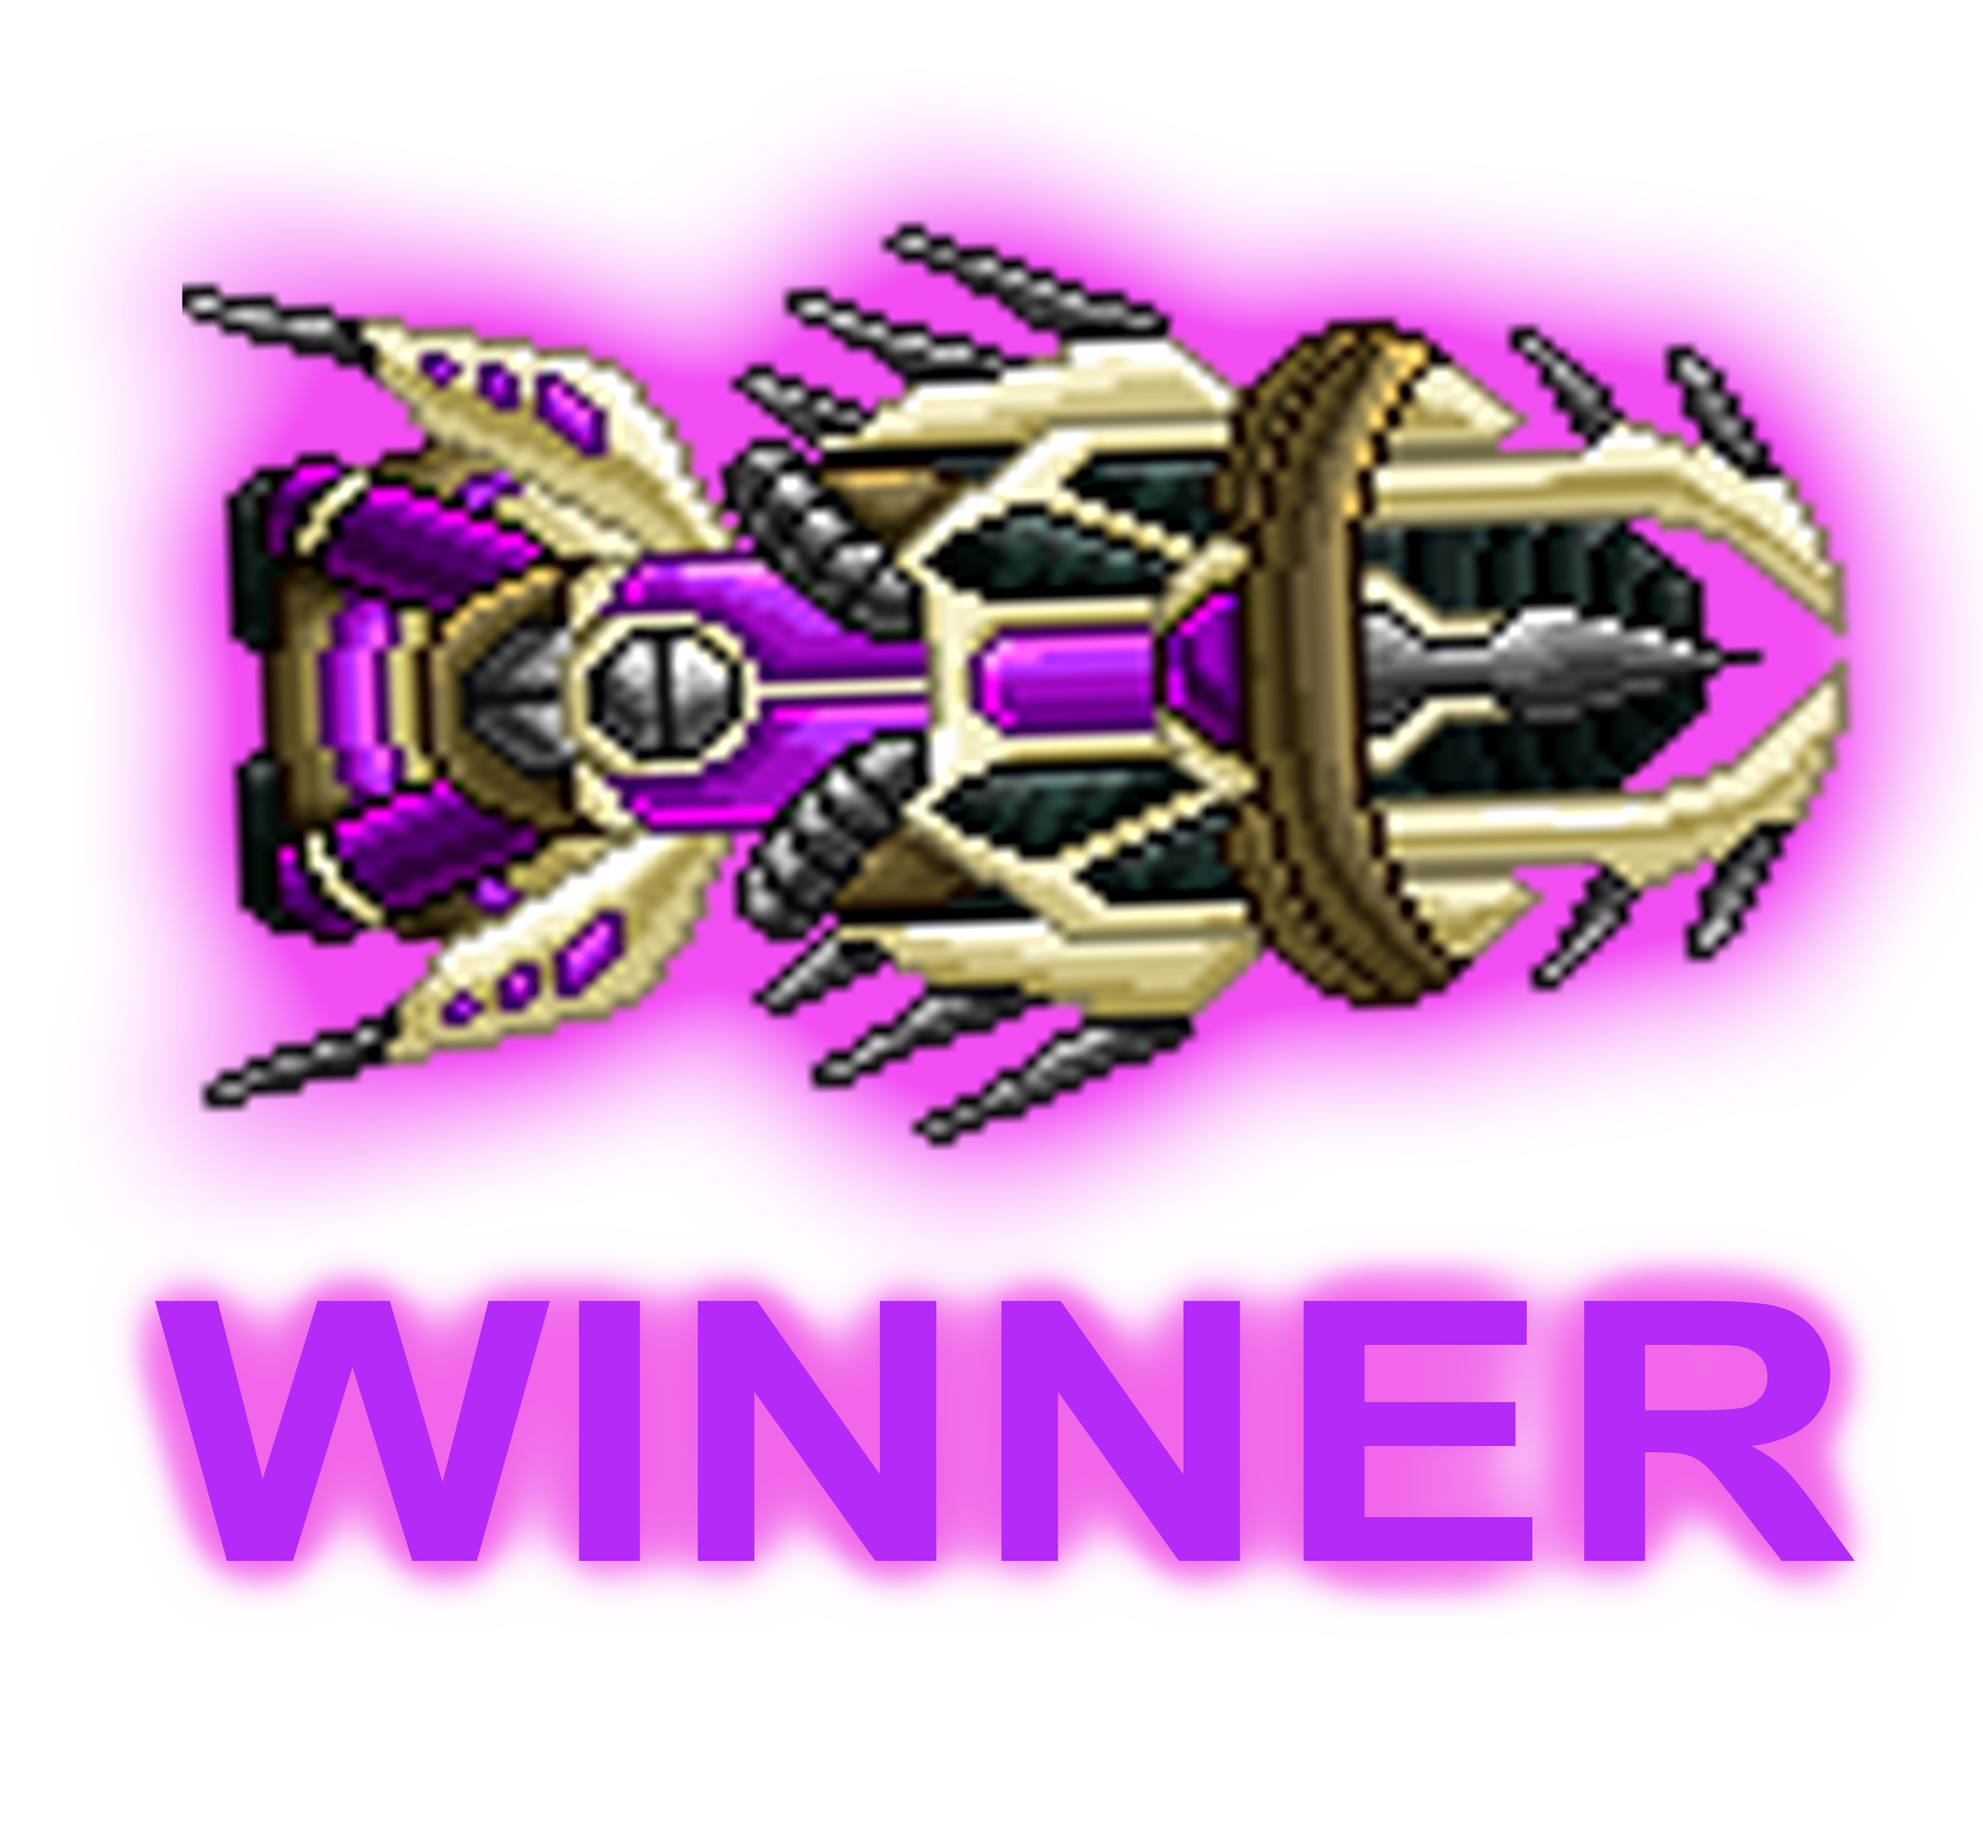
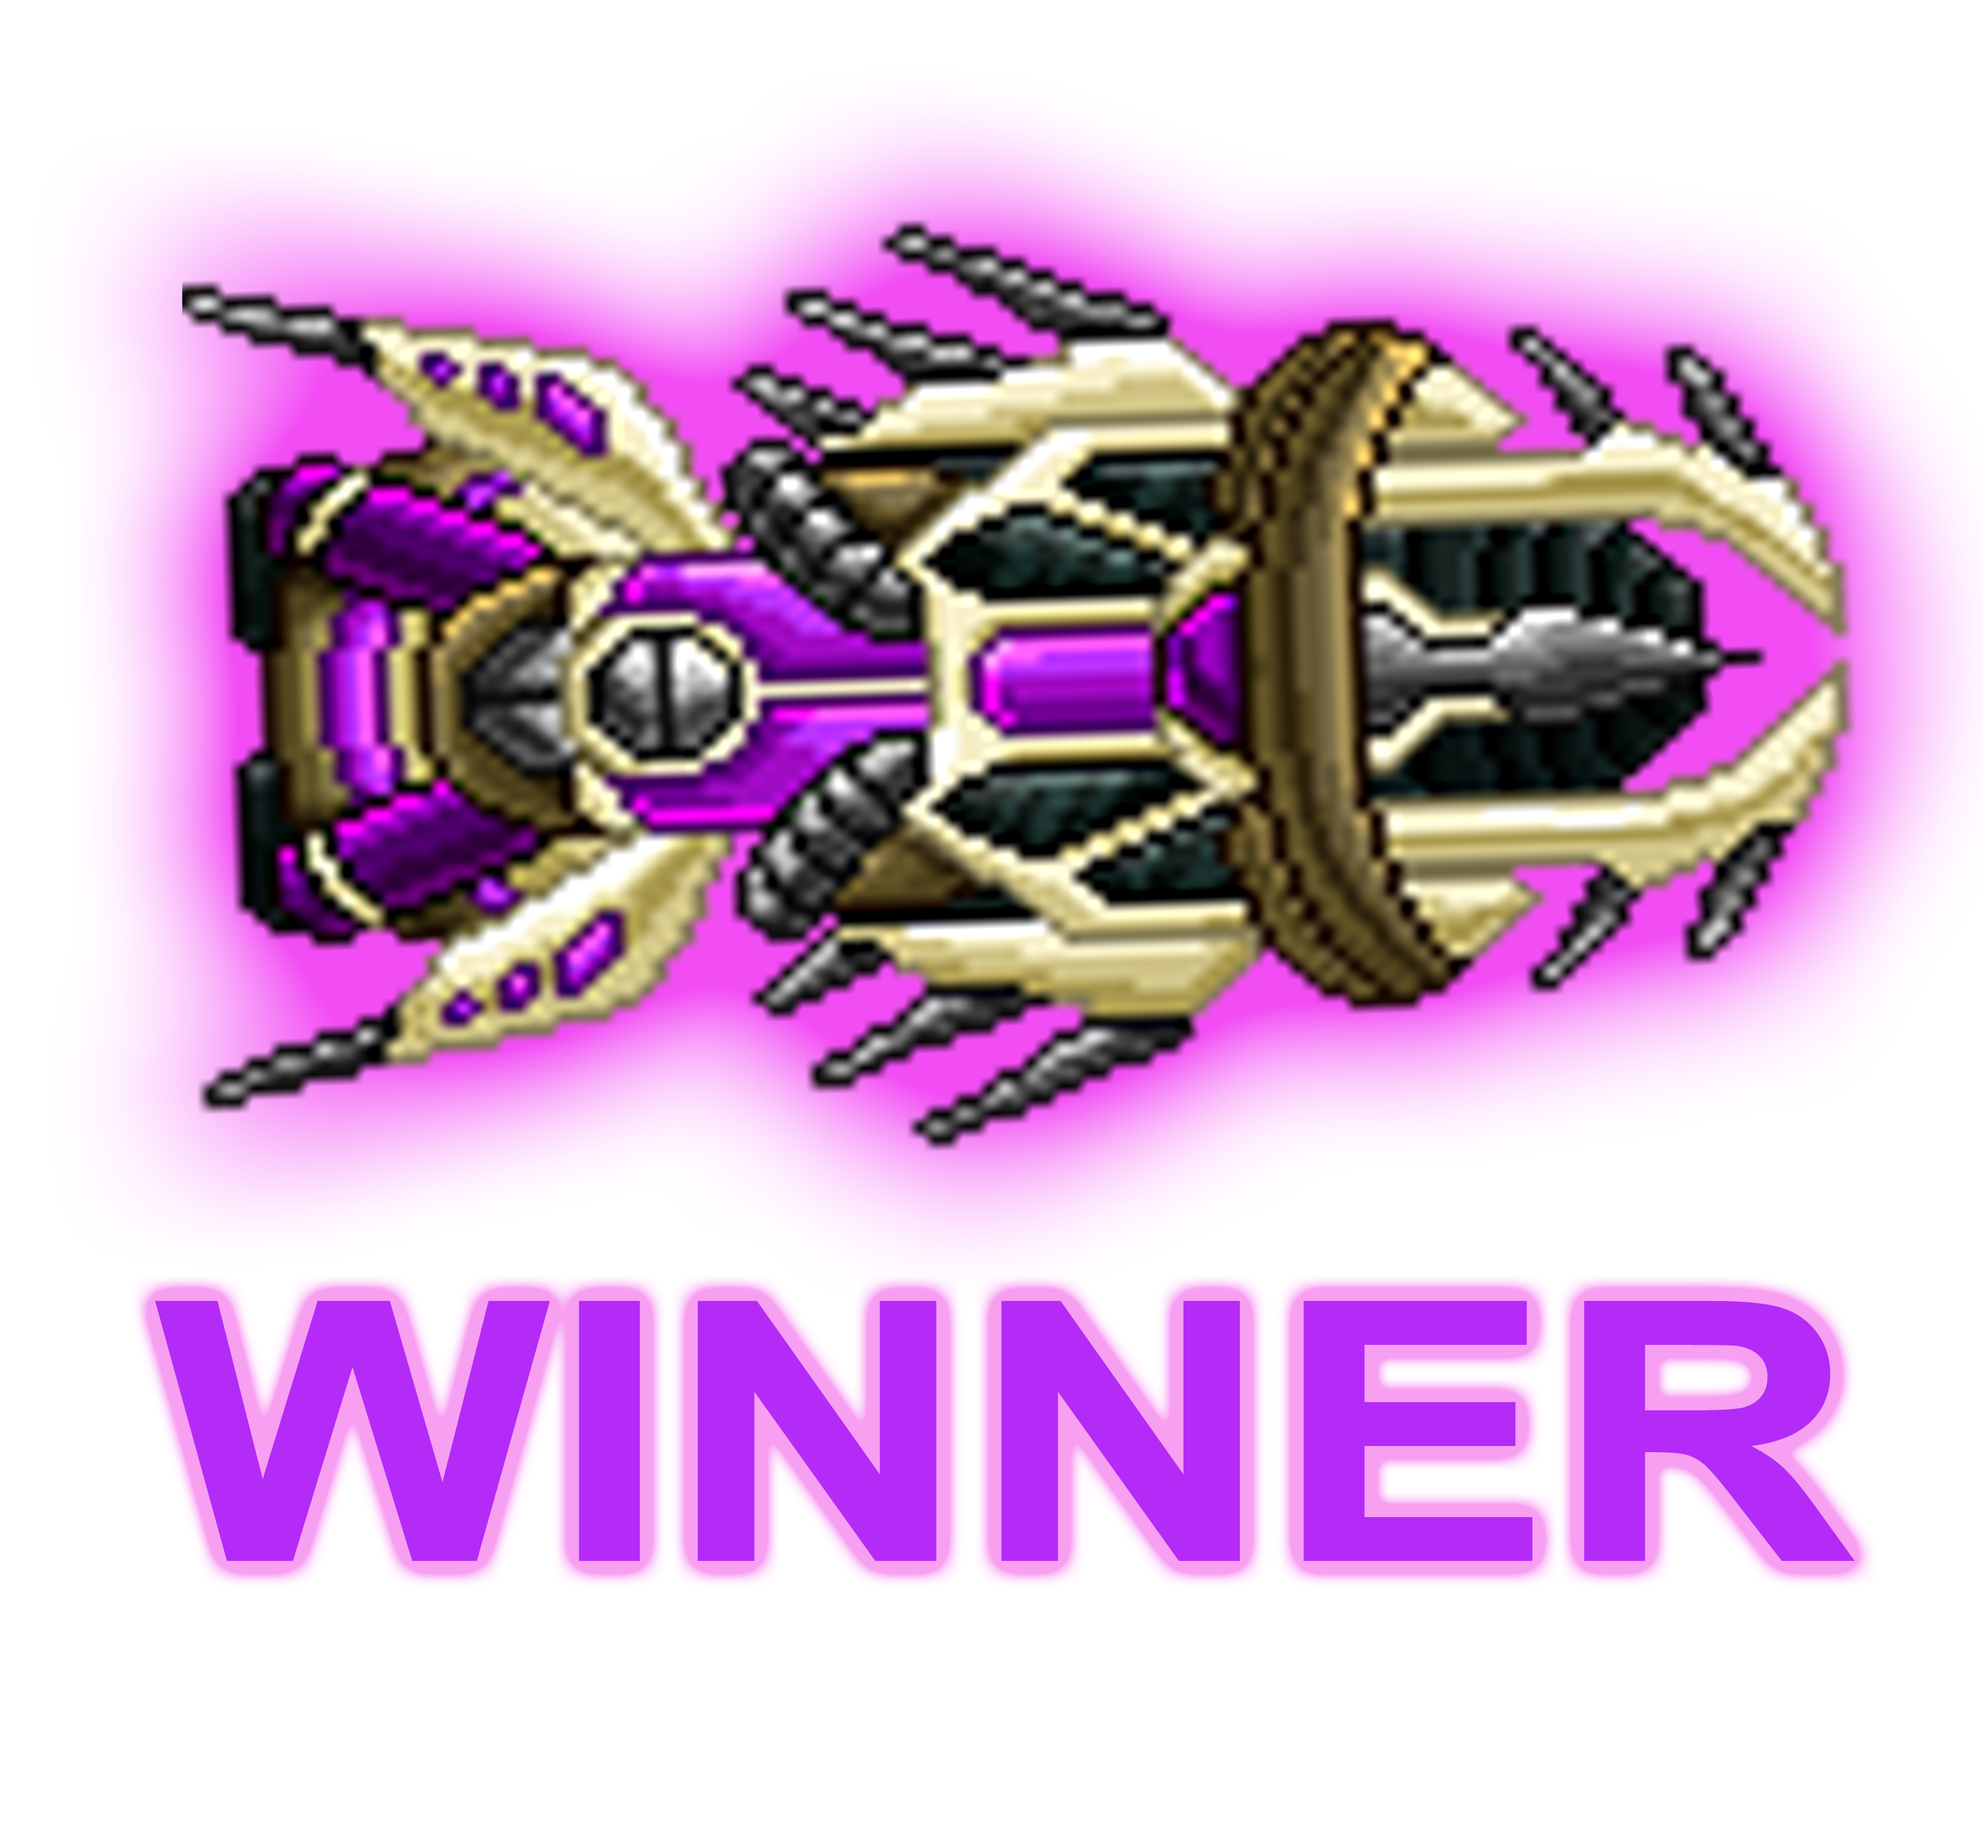
se agrega brillo en borde, y cambio de generacion de obstaculos

Changed region(s): [[0.0621, 0.6533, 0.9621, 0.8711]]

diff --git a/js/main.js b/js/main.js
@@ -24,6 +24,14 @@ let obstacles = [];
 let scoreCount = 0;
 let keys = [];
 
+
+let audio = new Audio('./sound/lol.mp3');
+let soundG = new Audio('./sound/laser.mp3');
+let soundP = new Audio('./sound/laser2.mp3');
+let soundBoom = new Audio('./sound/boom.mp3');
+let obsExp = new Audio('./sound/obsExplo.mp3');
+
+
 //clases
 class Board {
   constructor(){
@@ -39,7 +47,7 @@ class Board {
       };
     }
   draw(){
-    this.x--; //velocidad fondo
+    this.x -=2; //velocidad fondo
     //si no tengo el if, la imagen solo se estira, aparece la imagen y se va intercaando con la misma para que no se vea cortada
     if(this.x < -canvas.width) this.x = 0;
     ctx.drawImage(this.img, this.x, this.y, this.width, this.height);
@@ -207,23 +215,29 @@ class Obs {
     };
   }
   draw() {
-      if(frames < 900){
+      if(frames < 1000){
         this.x -= 2;
         ctx.drawImage(this.img, this.x, this.y, this.width, this.height);  
-      }else if(frames > 1000 && frames < 1500){
-        this.x -= 5;
-        //ctx.drawImage(this.img, this.x, this.y, this.width, this.height);
-        ctx.drawImage(this.imgObs2,this.x, this.y, 90, 70);
-      }else if (frames > 1500 && frames < 2000){
-        this.x -= 8;
+      }else if(frames > 1000 && frames < 3000){
+        this.x -= 3;
+        ctx.drawImage(this.imgObs2,this.x, this.y, 100, 100);
+      }else if (frames > 2000 && frames < 3000){
+        this.x -= 3;
         ctx.drawImage(this.img, this.x, this.y, 150, 150);
-      }else if(frames > 2100  && frames < 2200) {
+      }else if(frames > 3000  && frames < 3500) {
         this.x -= 10 
         ctx.drawImage(this.imgObs2,this.x, this.y, 80, 80);
-      }else {
+      }else if(frames > 3500 && frames < 40000){
       this.x -= 8;
-      ctx.drawImage(this.img, this.x, this.y, this.width, this.height);
-    }
+      ctx.drawImage(this.imgObs2, this.x, this.y, 100, 100);
+      // ctx.drawImage(this.img, this.x, this.y, this.width, this.height); 
+       }else {
+         this.x -= 2
+         ctx.drawImage(this.imgObs2, this.x, this.y, 250, 250);
+
+   }     
+
+    
   }
 }
 
@@ -252,8 +266,8 @@ class BulletP {
     return (
       this.x < obstacle.x + obstacle.width &&
       this.x + this.width > obstacle.x &&
-      this.y +40 < obstacle.y + obstacle.height &&
-      this.y + 40 + this.height > obstacle.y
+      this.y < obstacle.y + obstacle.height &&
+      this.y + this.height > obstacle.y
     );
   }
 }
@@ -286,19 +300,12 @@ class BulletG {
   }
 }
 
-
-let audio = new Audio('./sound/lol.mp3');
-let soundG = new Audio('./sound/laser.mp3');
-let soundP = new Audio('./sound/laser2.mp3');
-let soundBoom = new Audio('./sound/boom.mp3');
-let obsExp = new Audio('./sound/obsExplo.mp3');
-
 //clases
 
 function generateObs(){
   
-  if (frames % 80 === 0) { //numero de obs en funcion del tiempo
-    const randomPosition = Math.floor(Math.random() * canvas.height) + 50;
+  if (frames % 70 === 0) { //numero de obs en funcion del tiempo
+    const randomPosition = Math.floor(Math.random() * canvas.height);
     const obs = new Obs(randomPosition);
     obstacles.push(obs);
   }
@@ -345,11 +352,12 @@ let imgG = new Image()
 
 let apagar;
 
-function gameOver() { ///revisar el texto 
+function gameOver() {  
   audio.pause();
   obstacles = []
-  
+  clearCanvas();
   audio.currentTime = 0;
+
   if (shipG.hp === 0) {
     clearInterval(interval);
     apagar = true;
@@ -357,7 +365,6 @@ function gameOver() { ///revisar el texto
     //morado gana
     ctx.clearRect(0,0, canvas.width, canvas.height);
     ctx.drawImage(imgG, 230, 150, 260, 160);
-    //apagar = true;
     keys = [];
   }
    if(shipP.hp2 === 0){
@@ -393,10 +400,15 @@ const bullP = new BulletP();
 
 window.onload = function() {
   document.getElementById("start-button").onclick = function() {
+    
     if(!keys[13]){
       startGame();
       apagar = false;
-    }   
+    }
+     if(keys[32]){
+      this.blur();
+      return false;
+    }
   }; 
   document.getElementById("restart-button").onclick = function(){
      location.reload();
@@ -407,10 +419,15 @@ function startGame() {
   audio.play();
   if(interval) return;
   interval = setInterval(update, 1000 / 90); // /60
-  if (event.keyCode == 32) {
-    return false;
-}
+  ctx.clearRect(0,0,canvas.width, canvas.height);
+  startGame();
 };
+
+function restrictSpace() {
+  if (event.keyCode === 32) {
+      return false;
+  }
+}
 
 function restart(){
   /*interval = false;*/
@@ -425,46 +442,10 @@ function restart(){
   obstacles = [];
   ctx.clearRect(0,0,canvas.width, canvas.height);
   startGame();
+  restrictSpace();
 }
 
-// document.onkeydown = (e) => {
-//   switch(e.keyCode){
-    
-//       case 37:
-//         shipG.moveLeft();
-//       break;
-//       case 38:
-//         shipG.moveUp();
-//       break;
-//       case 39:
-//         shipG.moveRight();
-//       break;
-//       case 40:
-//         shipG.moveDown();
-//       break;
-//       case 65:
-//         shipP.moveLeft();
-//       break;
-//       case 68:
-//         shipP.moveRight();
-//       break;
-//       case 83:
-//         shipP.moveDown();
-//       break;
-//       case 87:
-//         shipP.moveUp();
-//       break;
-//       case 70:
-//         shootP();
-//        break;
-//        case 13:
-//          shootG();
-//          break;
-//       default:
-//       break;
-//   }
-// }
-
+ 
 document.body.addEventListener('keydown', (e) => {
   switch(e.keyCode){
     case 70:
@@ -472,31 +453,18 @@ document.body.addEventListener('keydown', (e) => {
       shootP();
     break;
     case 13:
-      // if(apagar){
-      //   return
-      //   keys[13] = false;
-      //   console.log('ayuda')
-      // }else {
-      //   soundP.play();
-      //   shootG();
-      // }  
       soundP.play();
         shootG();
       break;
-      case 32:
-          if (event.keyCode == 32) {
-            return false;
-        }
-      break;
      }
-      
-     
   keys[e.keyCode] = true;
 });
 
 document.body.addEventListener('keyup', (e) => {
   keys[e.keyCode] = false;
 });
+
+
 
 function update(){
   frames++;

diff --git a/css/style.css b/css/style.css
@@ -12,14 +12,14 @@ body {
   background-repeat: no-repeat;
   background-size: cover;
 }
-canvas {
+/*canvas {
   border: 3px dotted #45ffdd;
-}
-/* @-webkit-keyframes blink { 50% { border-color: #45ffdd;   }  }
+}*/
+ @-webkit-keyframes blink { 50% { border-color: #45ffdd;   }  }
 canvas{ 
 	border: 4px solid;
 	-webkit-animation: blink .5s step-end infinite alternate; 
-} */
+} 
 
 .game-intro{
   display: block;
